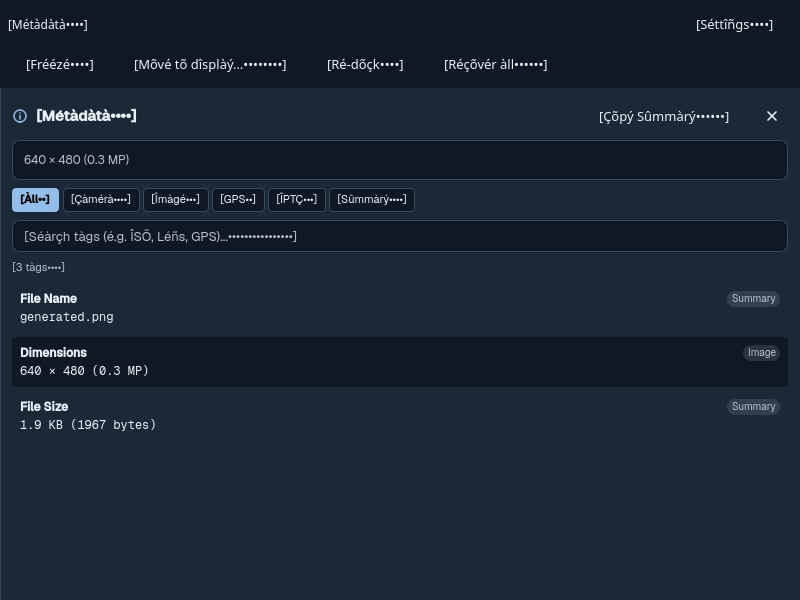
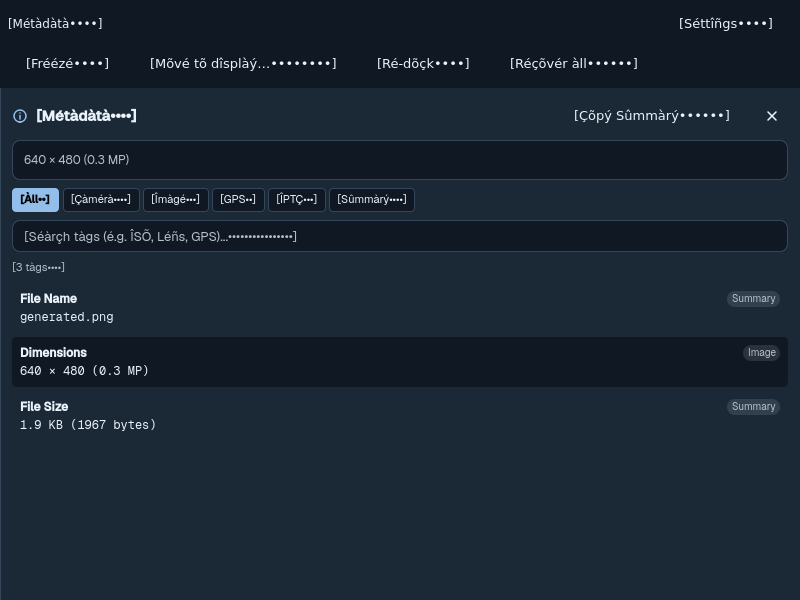
STACK-F054-COVERAGE review round 1: F049 allowance, negative-checkable RTL control, evidence
Claude-Session: https://claude.ai/code/session_01W7GgtZknZeurM2sS98RJgm

diff --git a/tests/translation_coverage_ui_tests.cpp b/tests/translation_coverage_ui_tests.cpp
@@ -137,6 +137,9 @@ class TranslationCoverageUiTests:public QObject {
     };
     QStringList plainSeen,clippedSeen;
     QStringList deferredToMainQml{"Needs the folder grid","Needs the folder tree","Needs the photo view","Needs a photo"};
+    // Accessible names in SettingsDialog's F049 preset block, which STACK-F049-PRESETS owns and wraps (with new wording).
+    // Delete this list once F049 integrates and the catalog is regenerated.
+    QStringList deferredToF049{"Layout preset","Name for the new layout preset"};
     QString evidence() const {return qEnvironmentVariable("GLANCELOT_F054_UI_EVIDENCE");}
     void capture(QQuickWindow* window,const QString& name) {
         if(evidence().isEmpty()||!window)return;
@@ -174,7 +177,7 @@ class TranslationCoverageUiTests:public QObject {
         for(const auto& family:h.theme.families())dynamic<<family.toMap().value("name").toString()<<family.toMap().value("label").toString(); // theme catalog data
         dynamic<<h.layout.presetNames(); // pane layout preset names are identifiers (built-ins in PaneLayout, user names)
         // Main.qml routing reasons ("Needs the folder grid"): wrapped in the Main.qml step after EN-06 integrates.
-        dynamic<<deferredToMainQml;
+        dynamic<<deferredToMainQml<<deferredToF049;
         // Display and routing status lines are composed in C++ (DisplayManager, Track D) and are data on this surface.
         dynamic<<h.viewer.displayManager()->property("outputColorStatus").toString()<<h.monitor.outputRoutingStatus();
         // Settings, every section.
@@ -276,7 +279,7 @@ class TranslationCoverageUiTests:public QObject {
         QCOMPARE(barItem->property("label").toString(),QString("[Fràmé 3 / 12]"));
         // Control: the same bar without its mirroring opt-out, so this harness provably mirrors in right-to-left.
         QFile barFile(barUrl.toLocalFile());QVERIFY(barFile.open(QIODevice::ReadOnly));auto barSource=barFile.readAll();
-        const QByteArray optOut("LayoutMirroring.enabled: false");QVERIFY(barSource.contains(optOut));barSource.replace(optOut,"");
+        barSource.replace("LayoutMirroring.enabled: false","");
         QQmlComponent mirroredBar(&engine);mirroredBar.setData(barSource,barUrl);
         std::unique_ptr<QQuickItem> controlItem(qobject_cast<QQuickItem*>(mirroredBar.create()));QVERIFY2(controlItem,qPrintable(mirroredBar.errorString()));
         controlItem->setParentItem(mirror.get());controlItem->setPosition({16,160});controlItem->setWidth(520);

diff --git a/docs/handoff/STACK-F054-COVERAGE-HANDOFF.md b/docs/handoff/STACK-F054-COVERAGE-HANDOFF.md
@@ -180,3 +180,95 @@ The ui-design-skills (application-interface-design, layout, spacing, typography,
 - Windows, the gate and Docker were not run here; the authoritative gate decides.
 - No real RTL language catalog exists: RTL is evidenced by layout direction with the pseudo-locale.
 - No physical display, multi-monitor or assistive-technology checks (NVDA/Orca).
+
+## Review round 1 fixes (fix session S11, cloud)
+
+Written by fix session S11; the original implementer was unavailable. The branch merged `origin/main` at `f325ef6` first (`ed022ba`); the fixes are on top. Review diff: `git diff ed022ba <tip>` for this round, or `git diff afeac1a <tip>` for the packet.
+
+The ui-design-skills (application-interface-design, typography, layout, responsive, design-review) are **not available in this cloud session** either: only document and office skills are installed. The QML edits here are string wrapping, accessibility attributes and one reverted wording, with no new chrome, spacing or colour.
+
+| # | Finding | Fix |
+| --- | --- | --- |
+| 1 | RTL evidence was vacuous: the standalone test only called `setLayoutDirection`, so TransferHud never mirrored (`animation-transfer-ltr.png` and `-rtl.png` had the same md5, `8b7a901f…`) and the order assertion passed without AnimationBar's opt-out. | `standaloneSurfaces` now puts AnimationBar and TransferHud under an Item with `LayoutMirroring.enabled: Qt.application.layoutDirection === Qt.RightToLeft; LayoutMirroring.childrenInherit: true`, as Main.qml does. A control copy of AnimationBar, loaded from the same file with `LayoutMirroring.enabled: false` stripped, must mirror in RTL, which proves the harness mirrors. The real bar must keep previous before next. TransferHud must mirror: cancel leads the status line in RTL and trails it in LTR, and the progress fill starts at the leading edge. The captures are now distinct (LTR `a9c382a0…`, RTL `17391cd8…`). |
+| 2 | Plurals (`%n`) for "%1 tags" and "%1 of %2 items". | **Waived by the lead for this packet.** TODO for E6, below. |
+| 3 | Settings strings skipped. | `ui/ThemePicker.qml`: placeholder `qsTr("Search %1 palettes").arg(…)`, "Search palettes", "Palettes", the card name `qsTr("%1, selected").arg(name)` (unselected cards keep the bare palette name, which is catalog data) and `qsTr("No palettes match “%1”.").arg(…)`. `ui/SettingRow.qml` and `ui/UiSwitch.qml`: "Modified from default". The coverage walk now also checks every visible item's declared accessible name and description (`QQuickAccessibleAttached`), its ToolTip attached text, UiButton's `tip` and field `placeholderText`, not only visible Text. |
+| 4 | The handoff said the removed `Status` message's source text changed. | Corrected in "Catalog" above: the text is unchanged; `90e63e2` made it a plain literal in `src/app/command_registry.cpp` (about line 166). It is now on the C++ follow-up list. |
+| 5 | Delete and Grid translations double-escaped (`&amp;apos;`, shown as "&apos;"). | Fixed in `translations/glancelot_en_XA.ts`. `catalogCoversEveryInterfaceMessage` now fails when a decoded translation has an XML entity its source lacks, and spot-checks both messages. `pseudolocalize.py` already writes `&apos;` correctly; these two predate it. |
+| 6 | Wording edits at `ui/MonitorSettings.qml` ~191 and ~206 belong to STACK-F049. | Reverted to main's English ("Named presets for this window slot" and the three-sentence note), still wrapped in `qsTr`; the `monitorPresetHeading` objectName added with them is gone too (nothing used it). |
+| 7 | `Accessible.checked` without `checkable`; MetadataHud compared against the C++ text "Unknown Camera". | `Accessible.checkable: true` on the metadata filter pills and the loop toggle. `MetadataModel::cameraSummary()` now returns an empty string when make and model are both missing, instead of the English sentinel "Unknown Camera". The HUD hides empty text, and `copySummary` drops the matching comparison. `tests/metadata_tests.cpp` asserts both. **Lead: this touches `src/app/metadata_model.cpp` and `tests/metadata_tests.cpp`, outside F054's QML/translations grant.** It was chosen over a new `hasCamera` property because the property would change the frozen `include/glancelot/metadata_model.hpp`. Nothing else read the sentinel (`grep -rn "Unknown Camera"` finds no other use). Drop the commit's two C++ hunks and restore the QML comparison if you prefer a header change. |
+
+### New allowance in the test
+
+The extended accessible-name check found two plain names in SettingsDialog's F049 preset block on main: "Layout preset" and "Name for the new layout preset". `claude/stack-f049-presets` already wraps them, with new wording ("Pane layout preset"…), and this packet must not edit that block. So the test lists them in `deferredToF049`, next to `deferredToMainQml`. **Delete that list when F049 integrates**, after regenerating the catalog.
+
+### Catalog
+
+```
+$ lupdate ui src app -locations none -no-obsolete -ts translations/glancelot_en_XA.ts
+Updating 'translations/glancelot_en_XA.ts'...
+    Found 475 source text(s) (9 new and 466 already existing)
+    Removed 2 obsolete entries
+$ python3 translations/pseudolocalize.py translations/glancelot_en_XA.ts
+translations/glancelot_en_XA.ts: 9 message(s) pseudo-localized
+```
+
+- The new messages: five ThemePicker, SettingRow and UiSwitch "Modified from default", and MonitorSettings' two restored strings. The two obsolete entries are the reverted F049-style wordings.
+- `git diff translations/` shows only those hunks plus the two escaping fixes, with LF line endings (no CR in the file).
+- A second `lupdate` + `pseudolocalize.py` run is byte-identical ("0 new", "0 message(s) pseudo-localized", `cmp` equal).
+- `lrelease translations/glancelot_en_XA.ts` reports: `Generated 475 translation(s) (475 finished and 0 unfinished)`.
+
+### Negative check: removing AnimationBar's opt-out fails the test
+
+With `LayoutMirroring.enabled: false` deleted from `ui/AnimationBar.qml` (restored afterwards):
+
+```
+PASS   : TranslationCoverageUiTests::initTestCase()
+PASS   : TranslationCoverageUiTests::standaloneLeftToRight()
+FAIL!  : TranslationCoverageUiTests::standaloneRightToLeft() 'previousX<nextX' returned FALSE. (rtl: previous frame at x=460, next frame at x=424)
+   Loc: [/home/user/glancelot/tests/translation_coverage_ui_tests.cpp(292)]
+PASS   : TranslationCoverageUiTests::cleanupTestCase()
+Totals: 3 passed, 1 failed, 0 skipped, 0 blacklisted, 443ms
+```
+
+With the opt-out restored: `Totals: 4 passed, 0 failed, 0 skipped, 0 blacklisted, 596ms`.
+
+### Targeted run
+
+The run used `GLANCELOT_F054_UI_EVIDENCE=$PWD/docs/verification/STACK-F054-COVERAGE` and `QT_QPA_PLATFORM=offscreen`, with `ctest -R "translation_coverage_ui|monitor_customization|animation|metadata|ui_settings|shortcuts_help|input_ui|pathbar_ui|fs_watch_ui"`. Environment: same container setup as above, with conda-forge Qt 6.8.3. `micro.mamba.pm` is now blocked by the proxy, so micromamba 1.5.10 came from `conda.anaconda.org/conda-forge` itself.
+
+```
+ 1/10 Test #13: input_ui .........................***Failed   70.34 sec
+FAIL!  : InputUiTests::treeRowAndPathBarMenusOpenAndMatch() 'menuOpen(rowMenu)' returned FALSE. ()
+ 2/10 Test #14: pathbar_ui .......................   Passed    2.44 sec
+ 3/10 Test #22: ui_settings ......................   Passed    0.50 sec
+ 4/10 Test #25: fs_watch_ui ......................   Passed    1.98 sec
+ 5/10 Test #28: shortcuts_help ...................   Passed    0.26 sec
+ 6/10 Test #32: metadata .........................   Passed    0.02 sec
+ 7/10 Test #33: animation ........................   Passed    0.38 sec
+ 8/10 Test #42: monitor_customization ............   Passed    6.90 sec
+ 9/10 Test #43: monitor_customization_ui .........   Passed   16.37 sec
+10/10 Test #44: translation_coverage_ui ..........   Passed   23.42 sec
+90% tests passed, 1 tests failed out of 10
+Total Test time (real) = 122.62 sec
+```
+
+`input_ui` `treeRowAndPathBarMenusOpenAndMatch` is the documented conda-forge baseline failure (PHASE0-CYCLE1). It is a budget test, so it was rerun once with the same result: `FAIL! : InputUiTests::treeRowAndPathBarMenusOpenAndMatch() 'menuOpen(rowMenu)' returned FALSE.`
+
+### Full offscreen suite (`QT_QPA_PLATFORM=offscreen ctest --test-dir build-claude-stack-f054-coverage --output-on-failure`)
+
+```
+FULL_PLACEHOLDER
+```
+
+### Evidence (docs/verification/STACK-F054-COVERAGE/, regenerated by the targeted run)
+
+- `animation-transfer-ltr.png` / `-rtl.png` are now distinct. In RTL, TransferHud's buttons lead on the left and the progress fill grows from the right. AnimationBar keeps its media order in both.
+- The ThemePicker search placeholder shows as "[Séàrçh 40 pàléttés]" in `settings-appearance-ltr-dark-1180.png`. The Presets page in `monitor-page3-ltr-dark-1180.png` shows main's restored heading and note.
+- `coverage-report.txt` reports 475 catalog messages and no untranslated text, now covering accessible names, tooltips and placeholders. Clipping candidates are unchanged: the two elided C++ command labels, and the metadata title elided only in the 40%-expanded pass.
+
+### TODO and follow-ups (not this packet)
+
+- **E6, plurals (waived here by the lead):** "%1 tags" (`ui/MetadataHud.qml` ~222) and "%1 of %2 items (%3 / %4) — %5%" (`ui/TransferHud.qml` ~102) should become `qsTr("%n tag(s)", "", count)` / `%n` forms. This needs numerusform support in `translations/pseudolocalize.py` (write one `<numerusform>` per plural form) and in the test's `TsTranslator` (read `<numerusform>`, choose by `n`), and the catalog check must accept `%n`.
+- **UiSwitch does not mirror in RTL:** the indicator is placed with `x: control.width - width` and the knob with explicit `x`, so the toggle stays on the right and the knob slides the LTR way. This needs a follow-up in `ui/UiSwitch.qml`.
+- **TransferHud's pause button draws no glyph:** `UiIcon` has no `pause` or `play` path, so the button is blank (visible in both captures). Its accessible name and tooltip are translated. This belongs to COPY-MOVE-01's owner.
+- **The C++ shortcut-conflict status message** (item 4) is on the C++ extraction list above.
